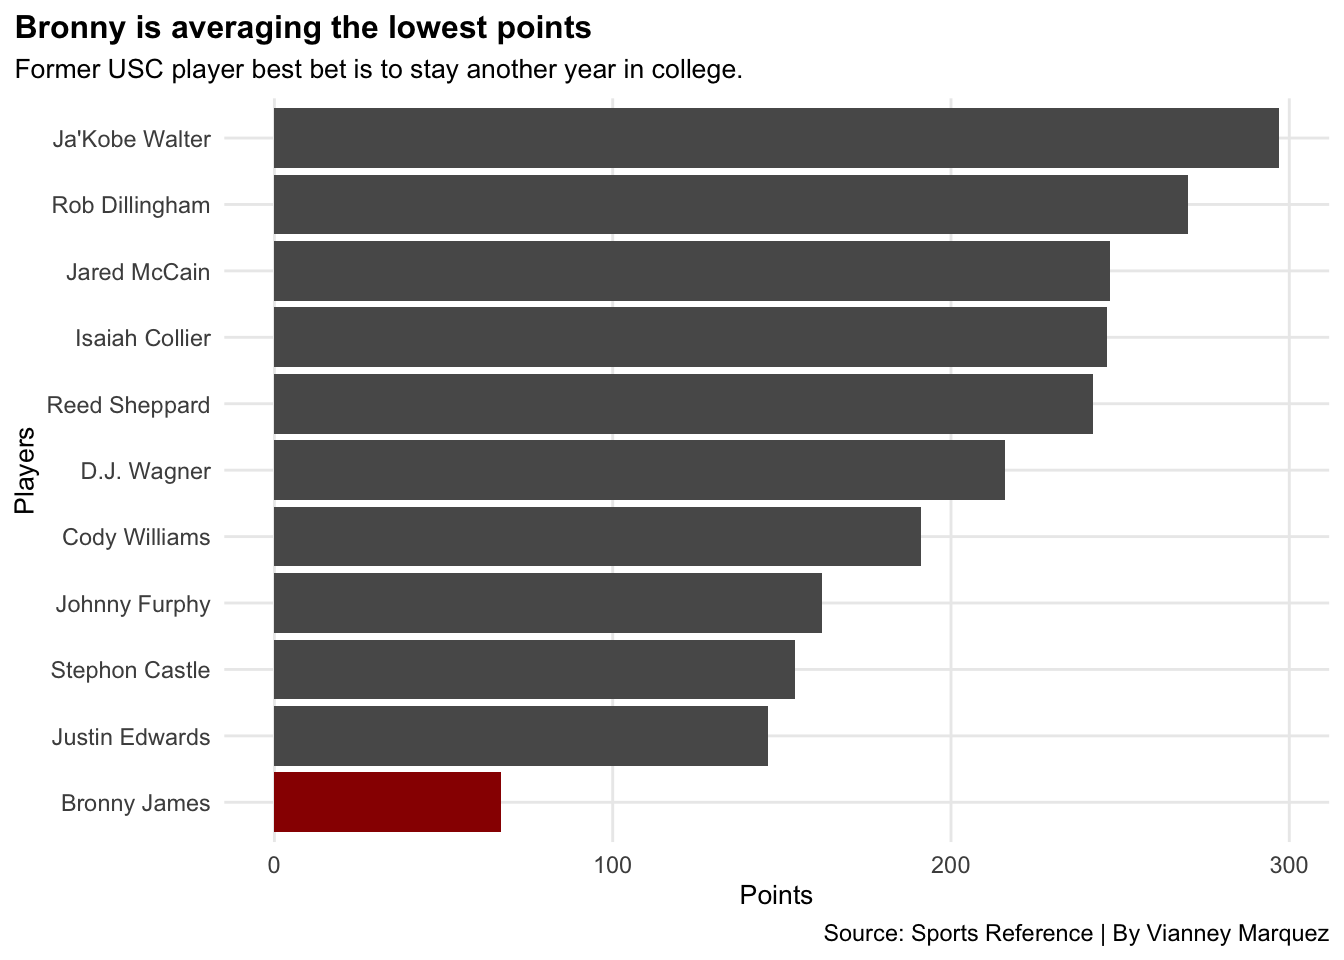
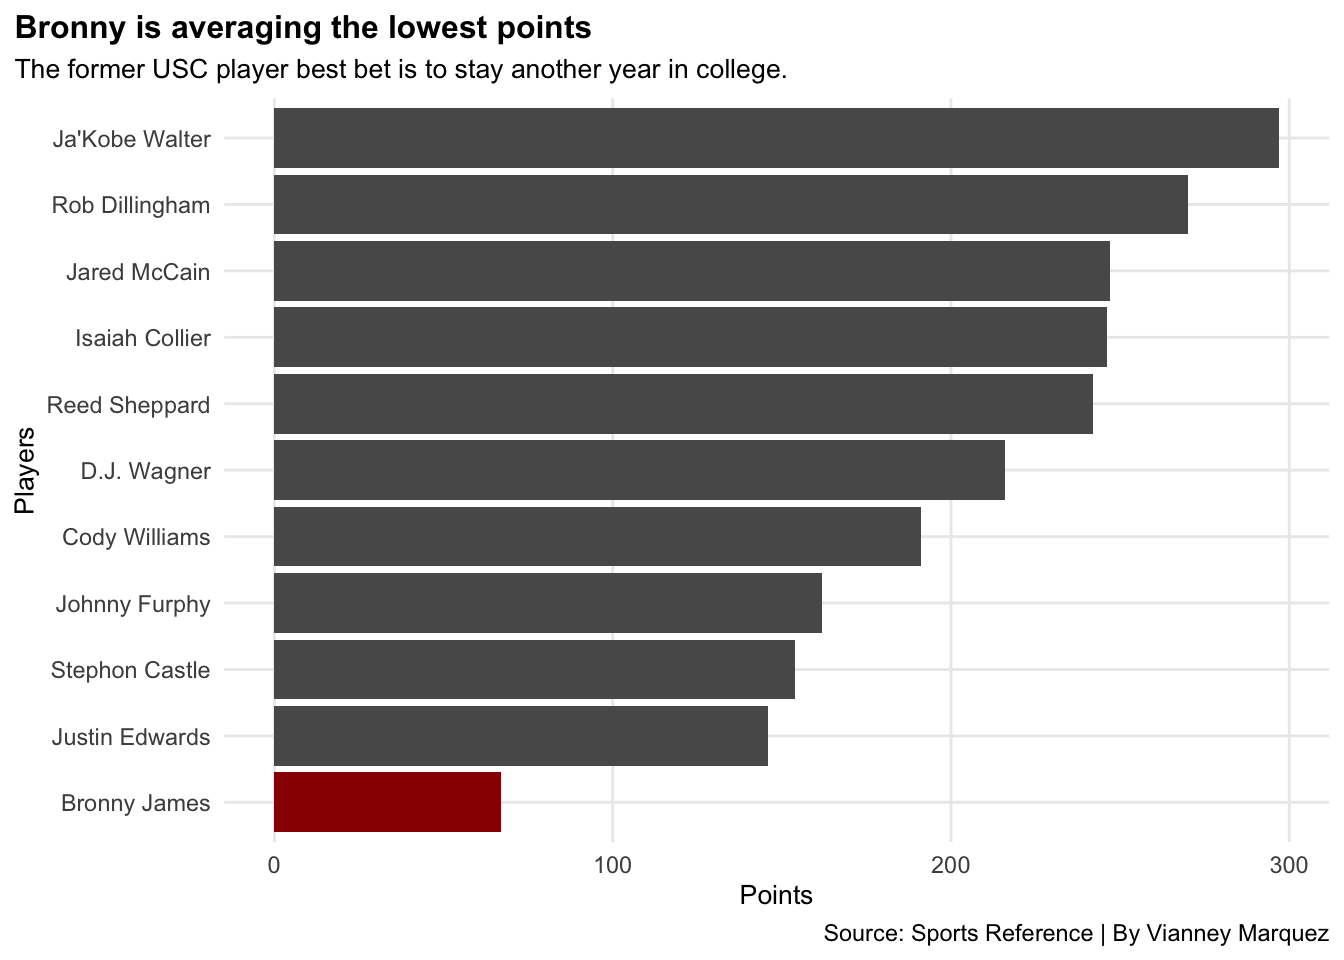
okay now ready

Changed region(s): [[0.0, 0.0625, 0.5938, 0.0938]]

diff --git a/posts/bronny-james-needs-to-stay-in-college/index.html b/posts/bronny-james-needs-to-stay-in-college/index.html
@@ -215,7 +215,7 @@ pre > code.sourceCode > span > a:first-child::before { text-decoration: underlin
 <span id="cb1-20"><a href="#cb1-20" aria-hidden="true" tabindex="-1"></a>    <span class="at">x=</span><span class="st">"Players"</span>, </span>
 <span id="cb1-21"><a href="#cb1-21" aria-hidden="true" tabindex="-1"></a>    <span class="at">y=</span><span class="st">"Points"</span>,</span>
 <span id="cb1-22"><a href="#cb1-22" aria-hidden="true" tabindex="-1"></a>    <span class="at">title=</span><span class="st">"Bronny is averaging the lowest points"</span>, </span>
-<span id="cb1-23"><a href="#cb1-23" aria-hidden="true" tabindex="-1"></a>    <span class="at">subtitle=</span><span class="st">"Former USC player best bet is to stay another year in college. "</span>, </span>
+<span id="cb1-23"><a href="#cb1-23" aria-hidden="true" tabindex="-1"></a>    <span class="at">subtitle=</span><span class="st">"The former USC player best bet is to stay another year in college. "</span>, </span>
 <span id="cb1-24"><a href="#cb1-24" aria-hidden="true" tabindex="-1"></a>    <span class="at">caption=</span><span class="st">"Source: Sports Reference | By Vianney Marquez"</span></span>
 <span id="cb1-25"><a href="#cb1-25" aria-hidden="true" tabindex="-1"></a>    ) <span class="sc">+</span> </span>
 <span id="cb1-26"><a href="#cb1-26" aria-hidden="true" tabindex="-1"></a>  <span class="fu">theme_minimal</span>() <span class="sc">+</span> </span>
